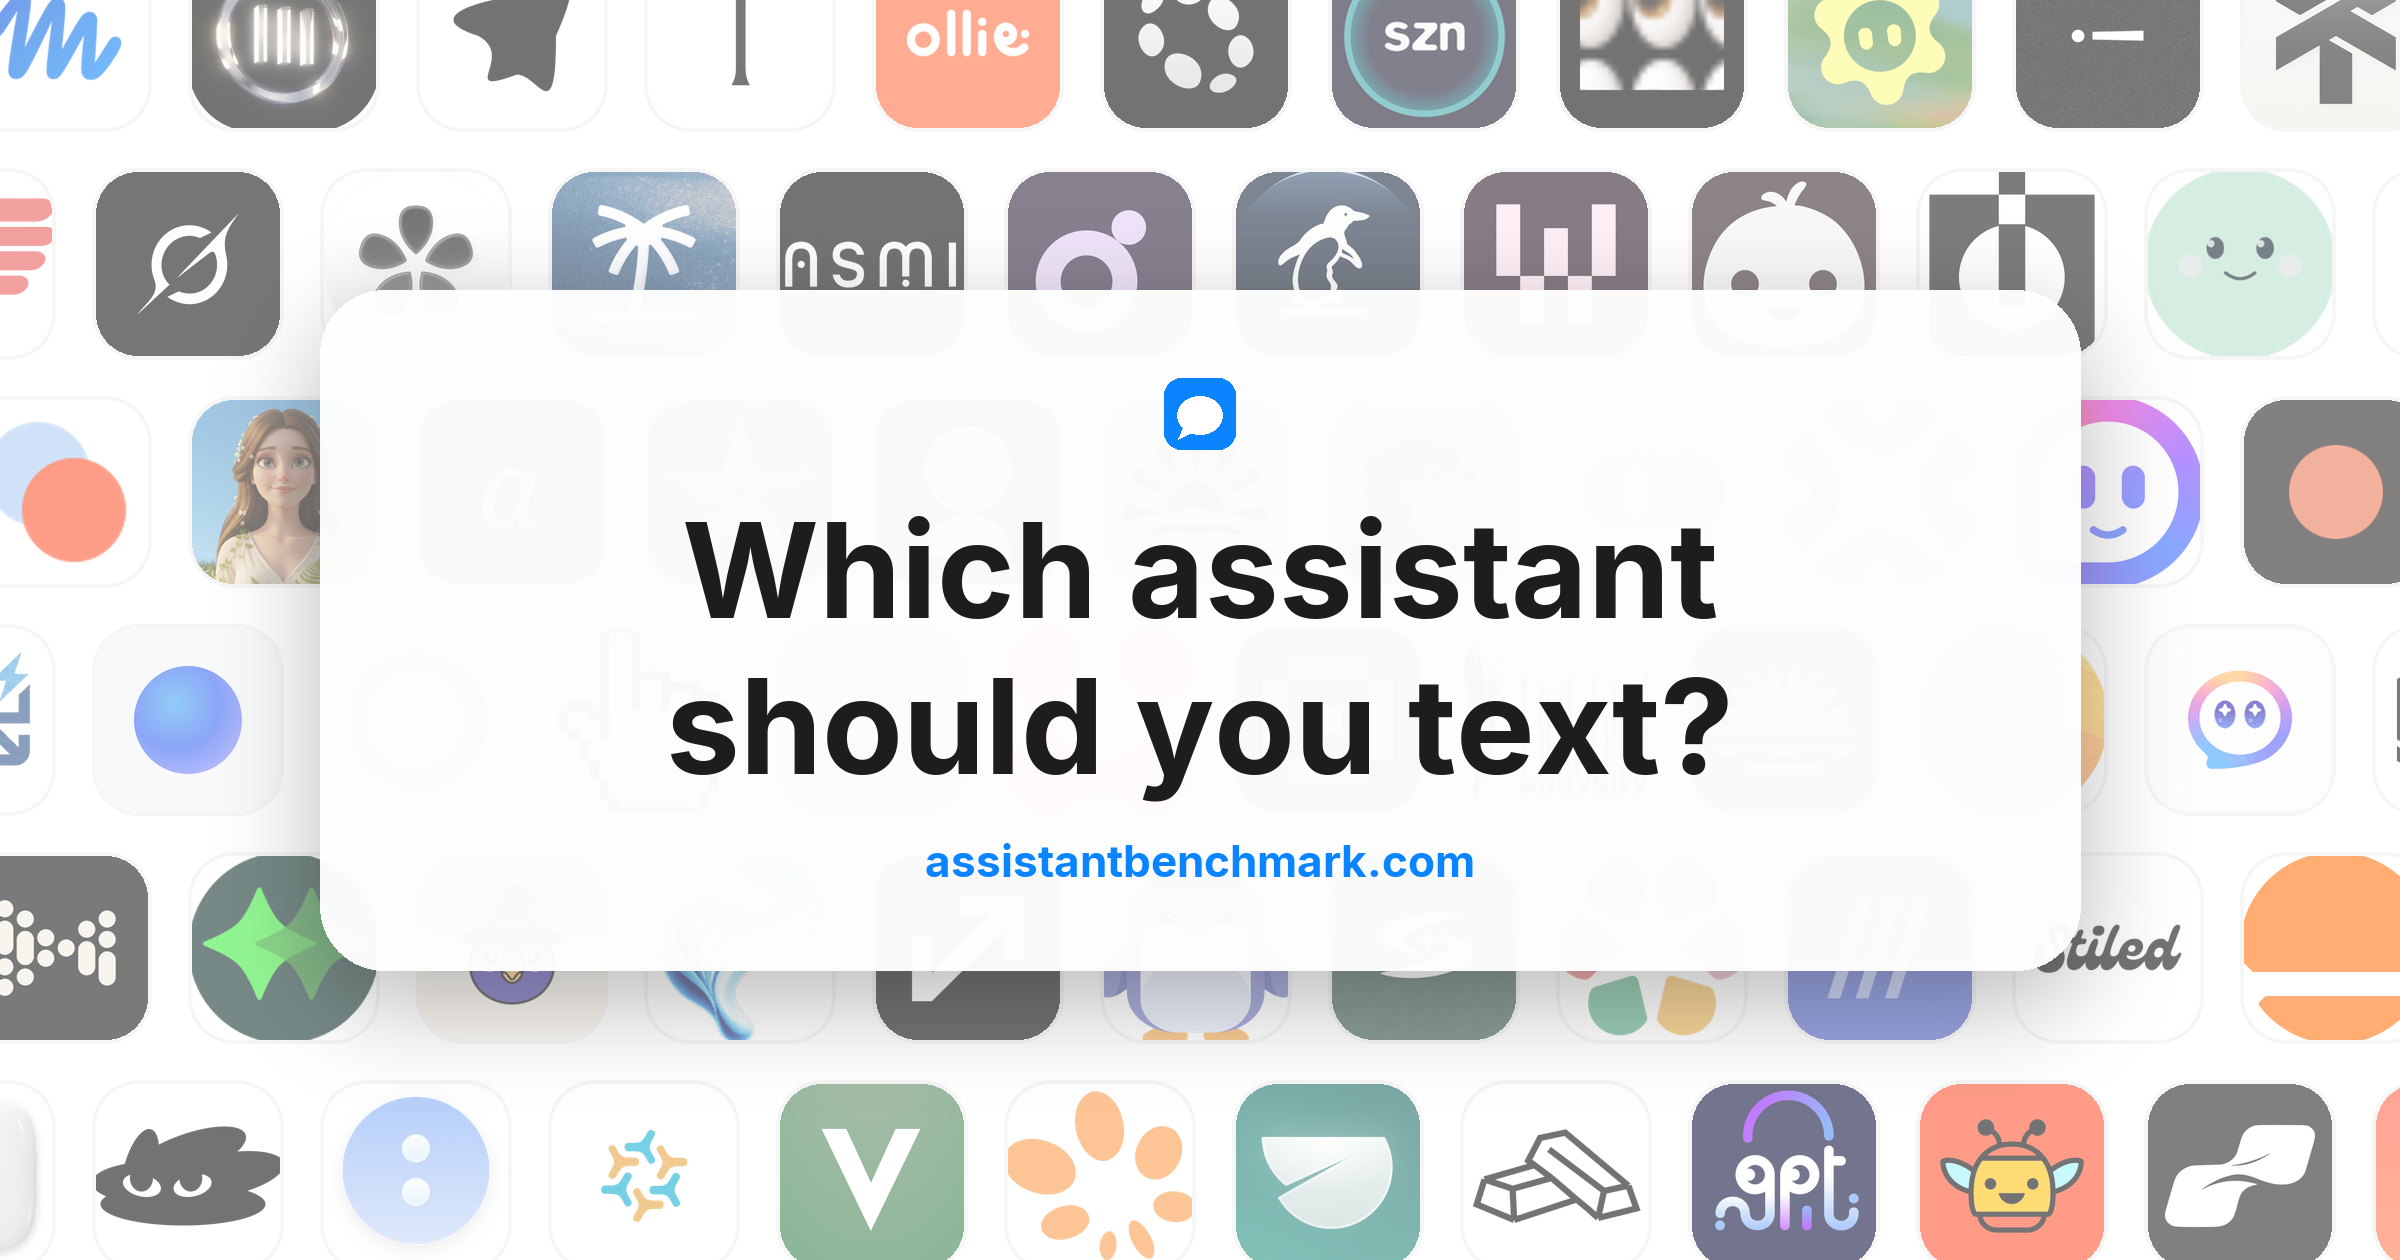
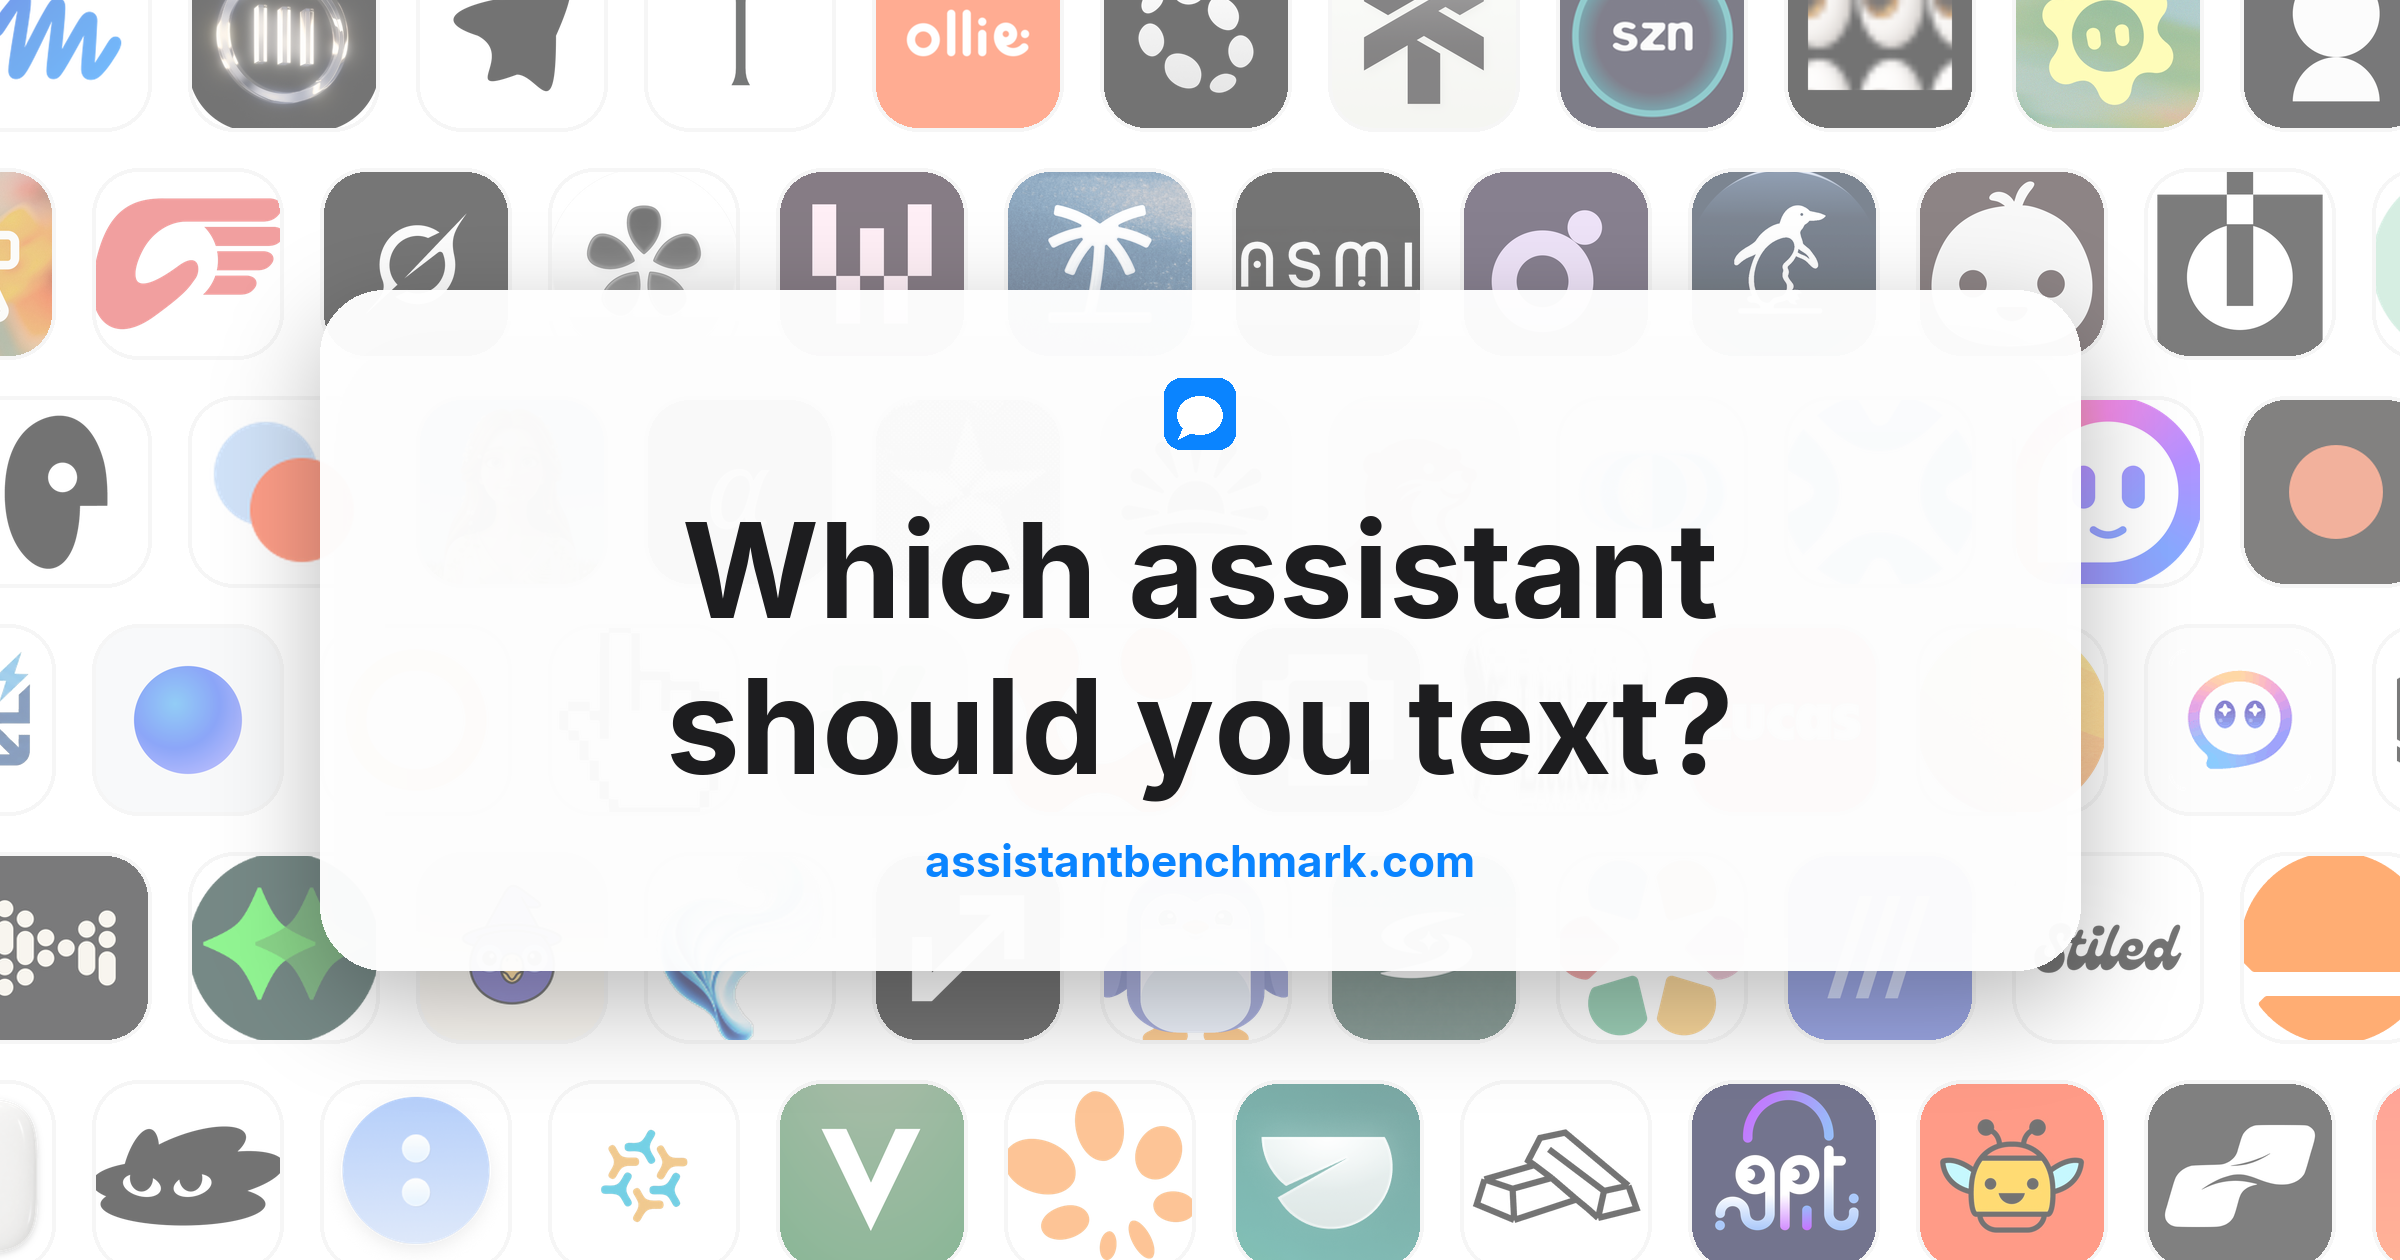
Add Dots and Gleeday from request-form submissions
Dots (issue #465): OpenAI's persistent agentic assistants announced at
Dev Day on 2026-10-01, included with ChatGPT Pro and Business Premium,
in ChatGPT, Slack and Teams. General group, untested.

Gleeday (issue #462): AI event planner and digital-invitation platform,
free. Stretch entry with likely-applicable dimensions per the request:
recommendations, chained tasks, memory, proactive help, online task,
purchasing, integrations.

Logos: Gleeday's favicon; Dots uses the OpenAI wordmark until a product
mark exists. Share images re-rendered, roster reindexed to 139.

Changed region(s): [[0.0, 0.0, 1.0, 0.4643]]

diff --git a/data/agents/dots/summary.md b/data/agents/dots/summary.md
@@ -1,0 +1,7 @@
+# Dots
+
+Site: https://openai.com/index/introducing-dots/
+
+OpenAI's persistent agentic assistants, announced at Dev Day on 2026-10-01 and powered by GPT-6 Astra. Each Dot runs in its own cloud environment with browser access and keeps working toward a stated goal across connected apps, with Slack and Teams at launch and text messaging said to be coming. Available to ChatGPT Pro and Business Premium subscribers in eligible markets. Requested via the form (issue #465).
+
+No public quotes collected yet.

diff --git a/data/agents/gleeday/summary.md b/data/agents/gleeday/summary.md
@@ -1,0 +1,7 @@
+# Gleeday
+
+Site: https://www.gleeday.com/
+
+AI event planner and digital-invitation platform: creates invitations, manages RSVPs, shares registries and guides guests, and links out to Amazon, Target, Google Maps, Canva and Pinterest for venues, vendors and party supplies. Requested via the form (issue #462), which asks for a real birthday or baby-shower scenario.
+
+No public quotes collected yet.
